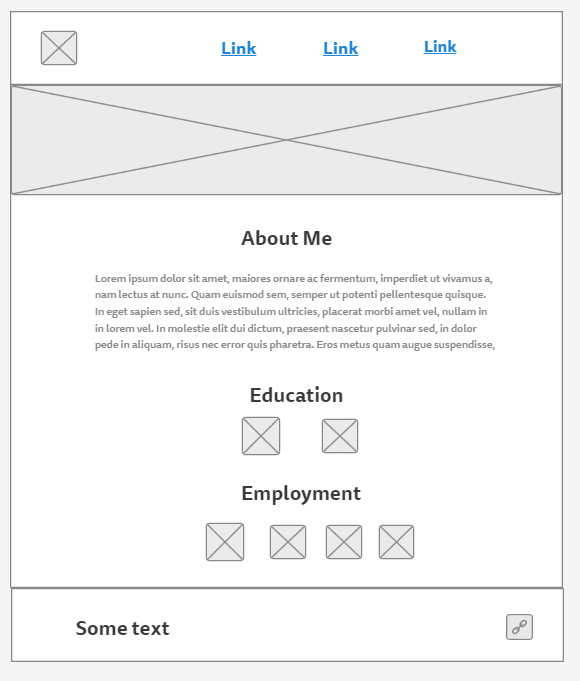
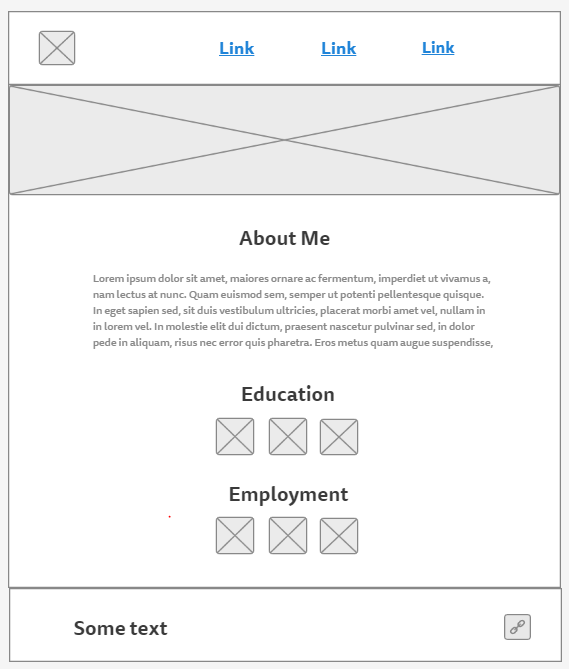
personal homepage v1

diff --git a/professional/index.html b/professional/index.html
@@ -1,0 +1,72 @@
+
+<!DOCTYPE html>
+<html lang="en">
+    <head>
+        <link rel="stylesheet" href="styles/style.css">
+        <meta charset="UTF-8">
+        <meta http-equiv="X-UA-Compatible" content="IE=edge">
+        <meta name="viewport" content="width=device-width, initial-scale=1.0">
+        <title> John Rhoden | Business Professional | Home</title>
+    </head>
+    <body>
+        <div id="content">
+            <header>
+                <a id="logo_link" href="index.html">
+                    <img class="logo" src="images/jrlogo.png" alt="JR Logo">
+                </a>
+                <nav>
+                    <a href="index.html">Home</a>
+                    <a href="education.html">Education</a>
+                    <a href="employment.html">Employment</a>
+                </nav>
+            </header>
+            <div id="hero">
+                <div id="hero-box">
+                    <img id="#" src="#" alt="John Rhoden hero">
+                </div>
+            <section id="hero-msg">
+                <h1 class="home-title">About Me</h1>
+                <p> My career has spanned politics, military service, and telecom. I've been blessed to live and work in several large cities, including Washington, DC, Boston, MA, Chicago, IL, Springfield, MO, and Bellevue, WA. For the last 5 years I've worked at T-Mobile USA. Prior to that I earned my MBA from BYU and worked in politics and served in the Army National Guard.  </p>
+                </div>
+            </section>
+            </div>
+            
+            <h2> Education </h2>
+            
+            <main class="home-grid">
+                <section class="byu-provo-card">
+                    <img class="card-img" src="images/byu_provo_logo.png" alt="BYU Provo logo">
+                </section>
+
+                <section class="byu-mba-card">
+                    <img class="card-img" src="images/byu-mba-logo.png" alt="BYU MBA logo">
+                </section>    
+
+                <section class="byu-idado-card">
+                    <img class="card-img" src="images/byu_idaho_logo.jpg" alt="BYU Idaho logo">
+                </section>    
+
+            <h2> Employment   </h2>
+                <section class="tmobile-card">
+                    <img class="card-img" src="images/T-logo.png" alt="T-mobile logo">
+                </section>
+                
+                <section class="romney-card">
+                    <img class="card-img" src="images/romney-bia-logo.png" alt="Romney logo">
+                
+                <section class="army-card">
+                    <img class="card-img" src="images/ang-modern-logo.png" alt="Army National Guard logo">
+
+                </section>
+            </main>
+            <footer>
+                <h3> &copy;2022 - John Rhoden</h3>
+                <h3><a href="professional/site-plan-rafting">Site Plan</a></h3>
+                <div class="social">
+                    <a href="https://www.linkedin.com/in/johnrhoden" target="_blank">
+                        <img src="images/linkedin-logo.png" alt="linkedin icon">
+                </div>
+            </footer>
+        </div>
+    </body>
+</html>

diff --git a/professional/site-plan.html b/professional/site-plan.html
@@ -128,8 +128,13 @@
         My career has spanned politics, military service, and telecom. I've been blessed to live and work in several large cities, including Washington, DC, Boston, MA, Chicago, IL, Springfield, MO, and Bellevue, WA. For the last 5 years I've worked at T-Mobile USA. Prior to that I earned my MBA from BYU and worked in politics and served in the Army National Guard. 
       </p>
       <p>Images for the Home page</p>
-        <img src="images/washington_seminar.jpg" alt="image of students in front of the White House">
-        <img src="images/squad.jpg" alt="image of a squad of soldiers">
+        <img src="#" alt="Jr Hero ">
+        <img src="images/byu_provo_logo.png" alt="BYU Provo logo">
+        <img src="images/byu-mba-logo.png" alt="BYU MBA logo">
+        <img src="images/byu_idaho_logo.jpg" alt="BYU Idaho logo">
+        <img src="images/T-logo.png" alt="T-mobile logo">
+        <img src="images/romney-bia-logo.png" alt="Romney logo">
+        <img src="images/ang-modern-logo.png" alt="Army National Guard logo">
 
       </ul>
       <h3>Education</h3>
